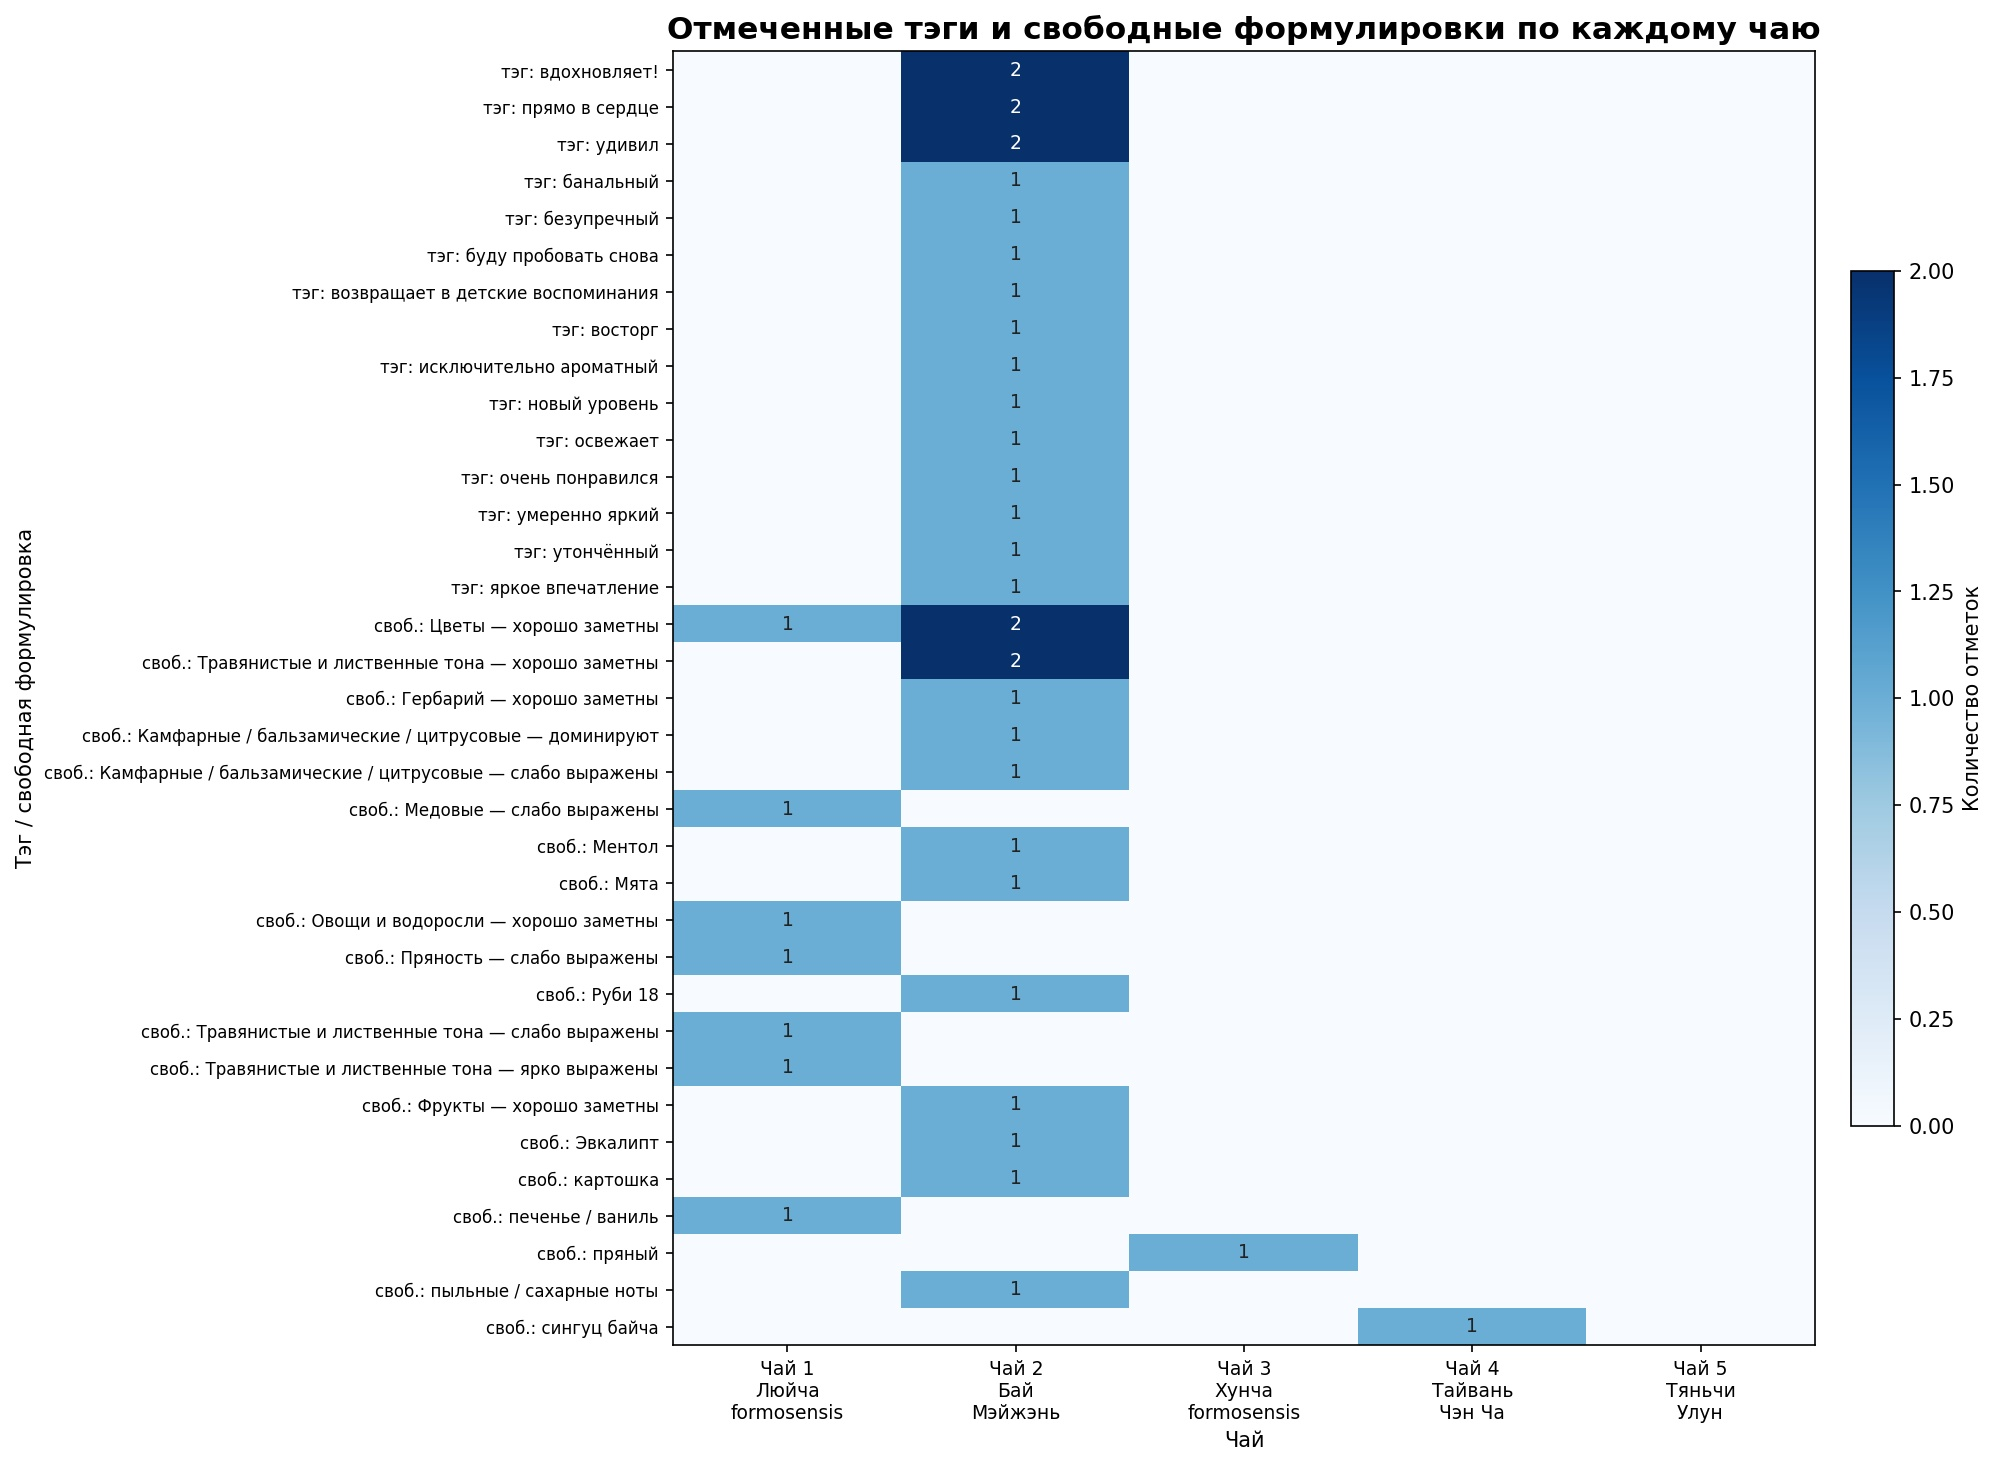
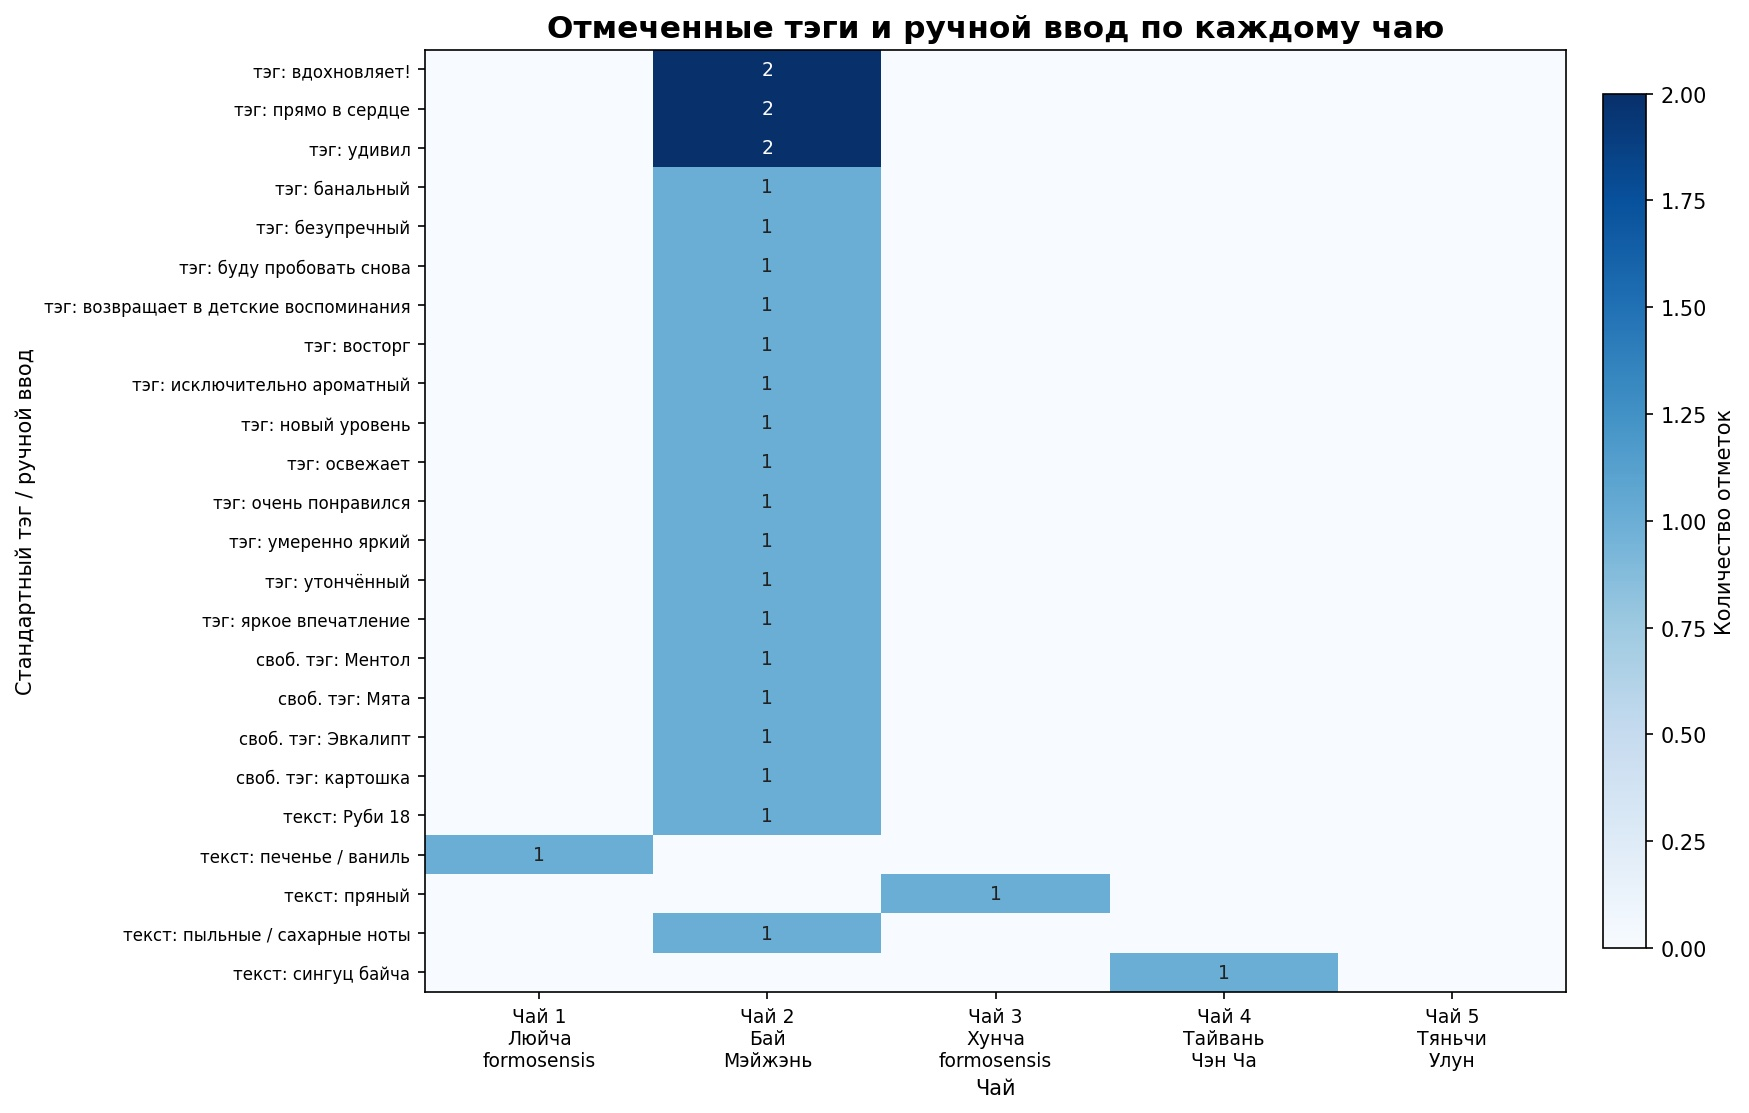
Exclude controlled intensity choices from freeform tags chart

Changed region(s): [[0.0, 0.0, 0.9262, 1.0], [0.8954, 0.0611, 1.0, 0.8553], [0.0617, 0.2749, 0.0926, 0.3055]]

diff --git a/generate_last_tasting_simple_infographics.py b/generate_last_tasting_simple_infographics.py
@@ -428,19 +428,39 @@ def draw_selected_and_freeform_tags(tags, free_texts, phrase_answers):
     for tag_name, tea_order, count in tags:
         counts[f"тэг: {tag_name}"][tea_order] += count
 
+    controlled_values = {
+        "не обнаружены",
+        "слабо выражены",
+        "хорошо заметны",
+        "ярко выражены",
+        "доминируют",
+    }
+
     for tea_order, template, answers in phrase_answers:
         values = answers if isinstance(answers, list) else []
-        values = [str(value).strip() for value in values if str(value).strip()]
-        values = [value for value in values if "не обнаруж" not in value.lower()]
-        for value in values:
-            lower = value.lower()
-            if lower in {"слабо выражены", "хорошо заметны", "ярко выражены", "доминируют"}:
-                category = template.split(" {blank}")[0].strip().split(",")[0]
-                label = f"своб.: {category} — {lower}"
-            else:
-                label = f"своб.: {value}"
-            counts[label][tea_order] += 1
+        typed_values = []
 
+        # In these phrase templates the first blank is a controlled intensity choice.
+        # It is not a keyboard-entered tag, so skip it. Keep only the following
+        # descriptor blanks unless they are controlled values too.
+        for value in values[1:]:
+            value = str(value).strip()
+            if value and value.lower() not in controlled_values:
+                typed_values.append(value)
+
+        # A few legacy answers can place a user-entered word in the first blank
+        # for short templates. Include it only when it is not one of the controlled
+        # intensity choices.
+        if values:
+            first = str(values[0]).strip()
+            if first and first.lower() not in controlled_values and len(values) <= 3:
+                typed_values.insert(0, first)
+
+        for value in typed_values:
+            counts[f"своб. тэг: {value}"][tea_order] += 1
+
+    # Free text fields are manual keyboard input. Keep them separate from tags,
+    # with short readable summaries.
     free_text_patterns = [
         ("печенье / ваниль", ["печень", "ванил"]),
         ("пыльные / сахарные ноты", ["пыль", "сахар"]),
@@ -453,34 +473,36 @@ def draw_selected_and_freeform_tags(tags, free_texts, phrase_answers):
         matched = False
         for label_text, needles in free_text_patterns:
             if any(needle in lower for needle in needles):
-                counts[f"своб.: {label_text}"][tea_order] += 1
+                counts[f"текст: {label_text}"][tea_order] += 1
                 matched = True
         if not matched:
             short = text.replace("\n", " ")
             if len(short) > 34:
                 short = short[:31] + "..."
-            counts[f"своб.: {short}"][tea_order] += 1
+            counts[f"текст: {short}"][tea_order] += 1
 
     selected_rows = [row for row in counts if row.startswith("тэг: ")]
-    free_rows = [row for row in counts if row.startswith("своб.: ")]
+    typed_tag_rows = [row for row in counts if row.startswith("своб. тэг: ")]
+    text_rows = [row for row in counts if row.startswith("текст: ")]
     selected_rows.sort(key=lambda row: (-sum(counts[row].values()), row))
-    free_rows.sort(key=lambda row: (-sum(counts[row].values()), row))
-    rows = selected_rows + free_rows
+    typed_tag_rows.sort(key=lambda row: (-sum(counts[row].values()), row))
+    text_rows.sort(key=lambda row: (-sum(counts[row].values()), row))
+    rows = selected_rows + typed_tag_rows + text_rows
 
     matrix = np.zeros((len(rows), 5), dtype=int)
     for i, row in enumerate(rows):
         for tea in range(5):
             matrix[i, tea] = counts[row][tea]
 
-    fig, ax = plt.subplots(figsize=(10.5, max(7, len(rows) * 0.32)), facecolor="white")
+    fig, ax = plt.subplots(figsize=(10.5, max(7, len(rows) * 0.34)), facecolor="white")
     im = ax.imshow(matrix, cmap="Blues", aspect="auto", vmin=0)
-    ax.set_title("Отмеченные тэги и свободные формулировки по каждому чаю", fontsize=15, fontweight="bold")
+    ax.set_title("Отмеченные тэги и ручной ввод по каждому чаю", fontsize=15, fontweight="bold")
     ax.set_xticks(range(5))
     ax.set_xticklabels([f"Чай {i + 1}\n{TEA_NAMES[i]}" for i in range(5)], fontsize=9)
     ax.set_yticks(range(len(rows)))
     ax.set_yticklabels(rows, fontsize=8)
     ax.set_xlabel("Чай")
-    ax.set_ylabel("Тэг / свободная формулировка")
+    ax.set_ylabel("Стандартный тэг / ручной ввод")
 
     vmax = max(1, int(matrix.max()) if matrix.size else 1)
     for i in range(matrix.shape[0]):
